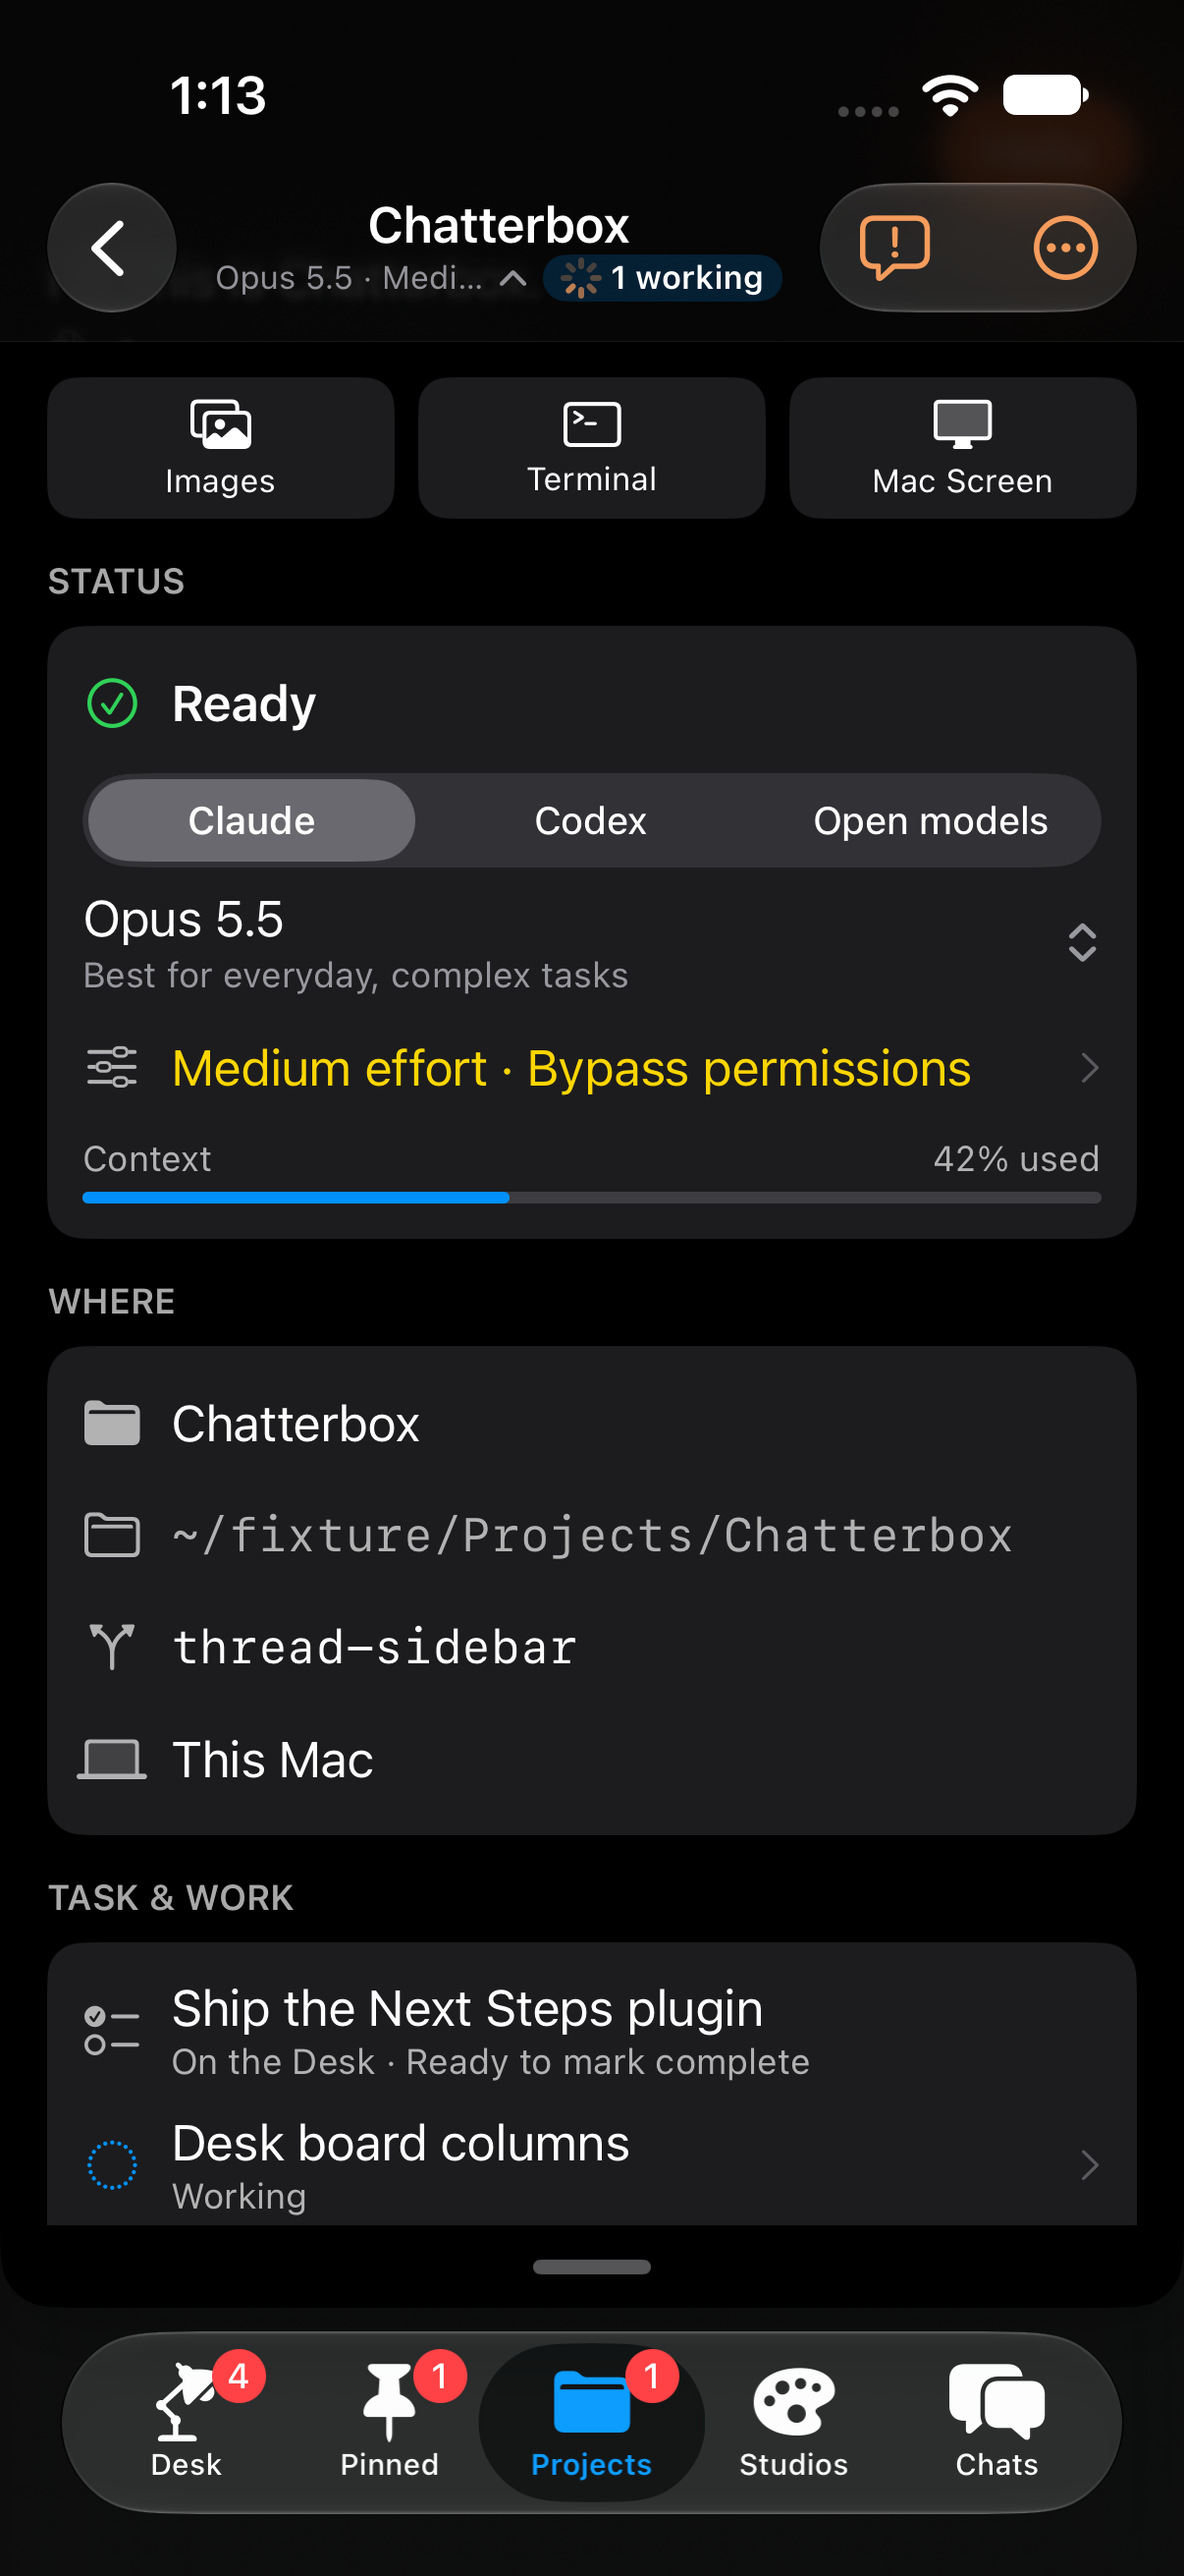
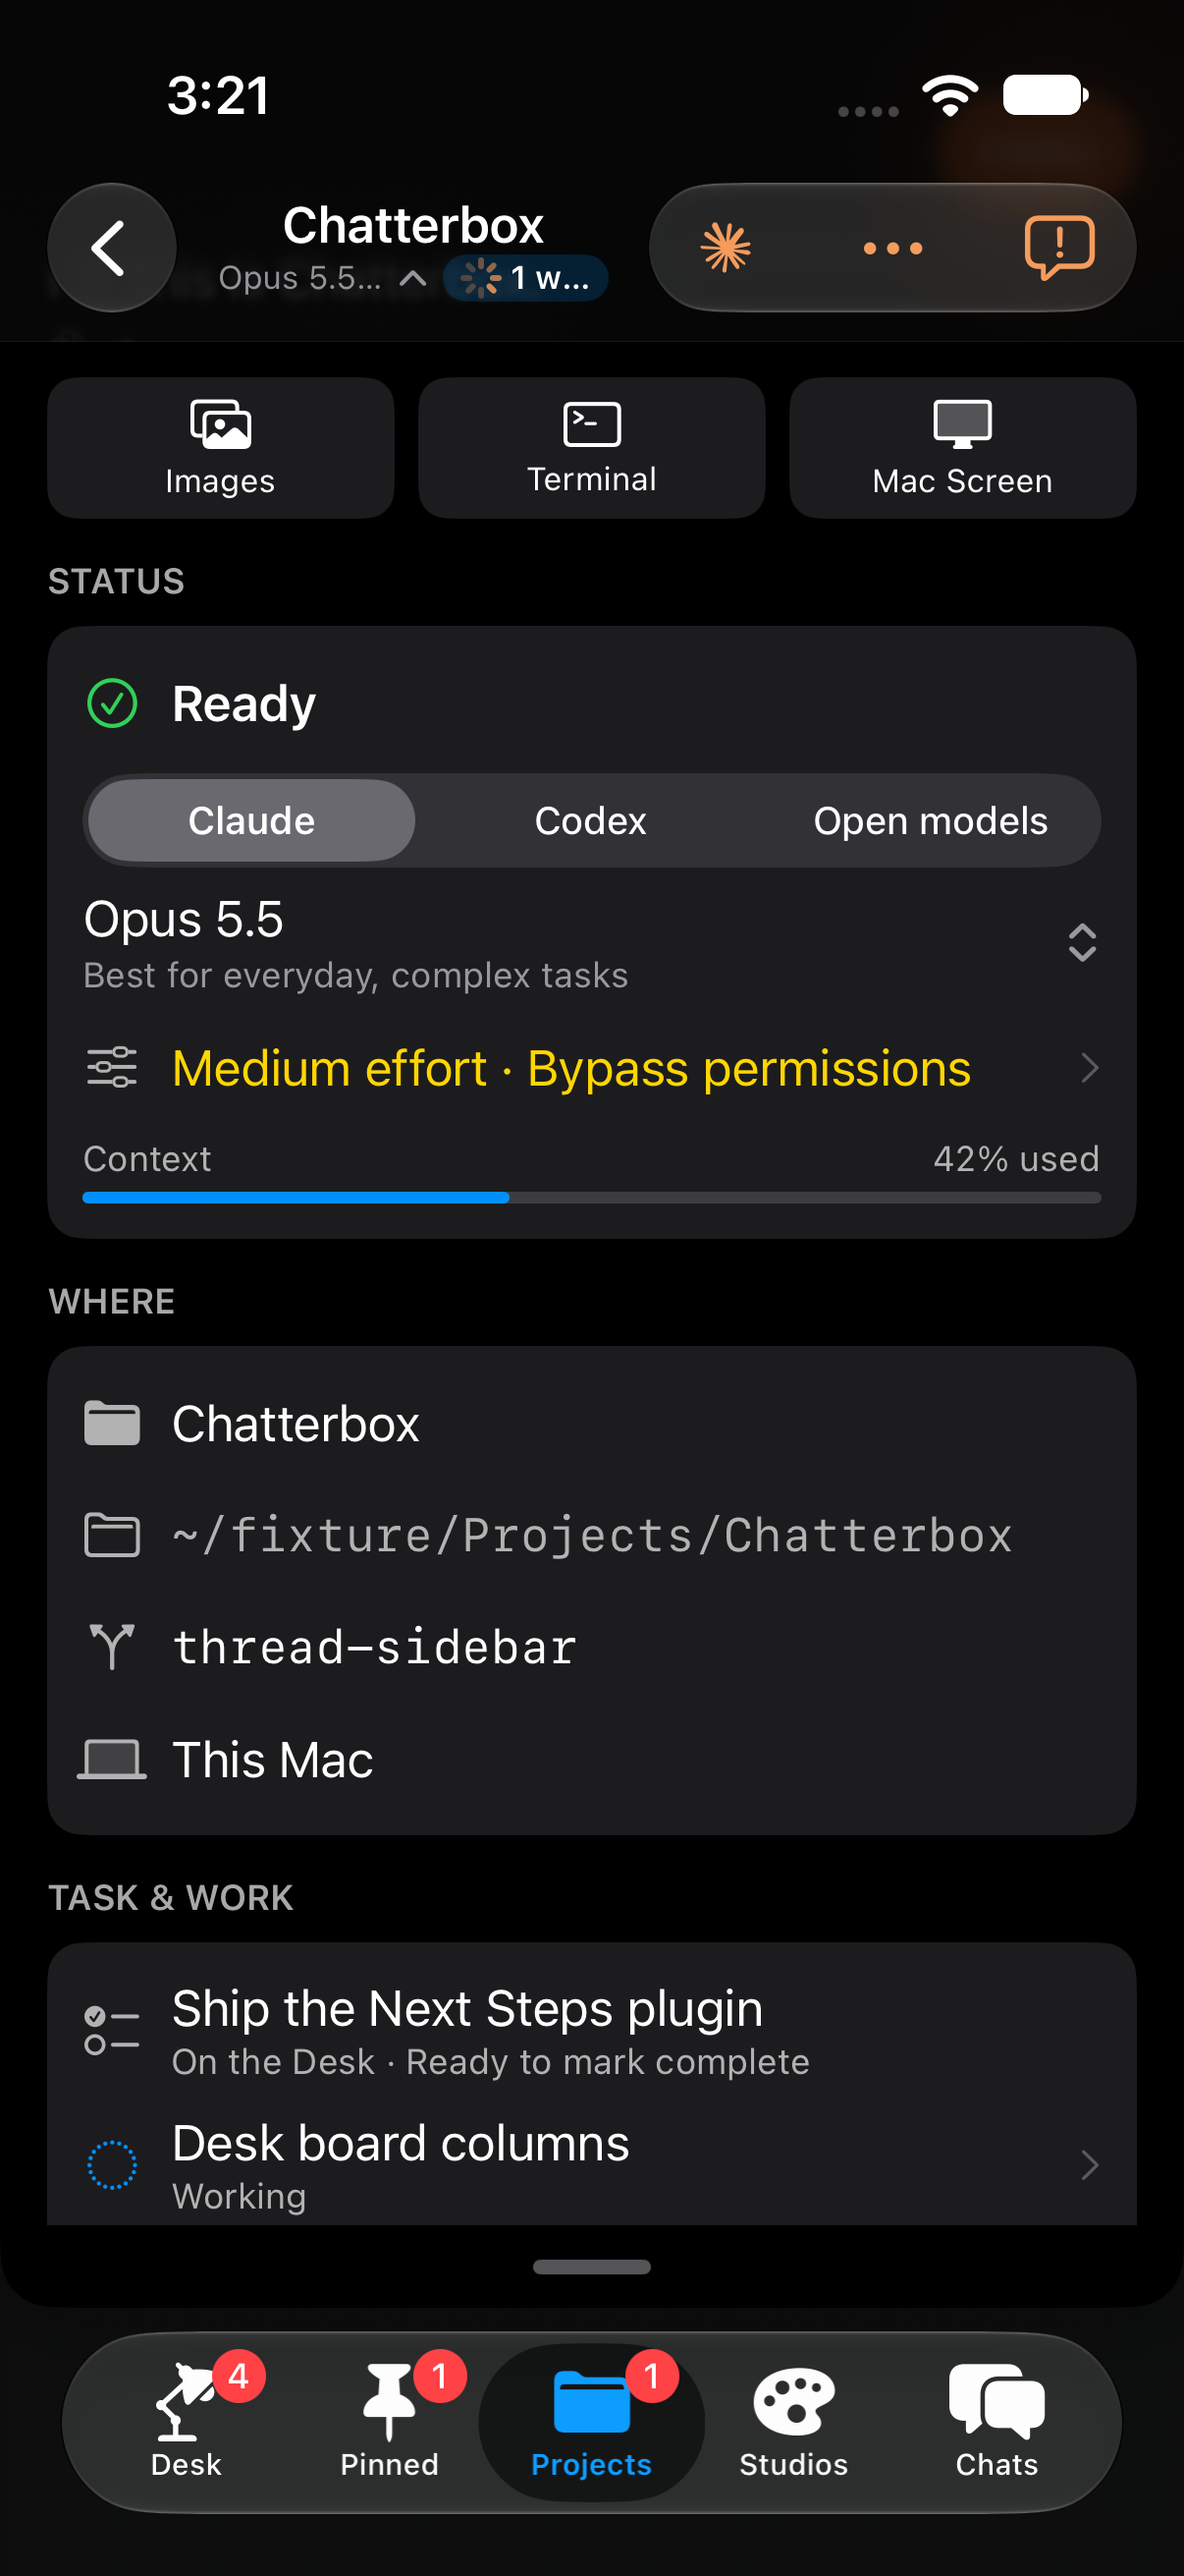
Phone About on the right, contextual rail: tests and screenshots
testAboutColumnOnWideLayout: the list stays, About opens on the right from the
session's bar (selected while open), Session Settings stays in reach, a work
thread peeks in the column and Back returns, the open state survives a
relaunch. testEdgeSwipeAndCards opens Session Settings from its bar button and
starts from list mode on a reused test device. Screenshots: duo-about-column,
duo-peek-column, phone-about(-full).

Changed region(s): [[0.1841, 0.0618, 0.7977, 0.1236], [0.859, 0.0618, 0.9204, 0.1236], [0.1534, 0.0309, 0.2148, 0.0618]]

diff --git a/tests/mobile-home-nav/HomeNavTests.swift b/tests/mobile-home-nav/HomeNavTests.swift
@@ -362,8 +362,10 @@ final class HomeNavTests: XCTestCase {
   XCTAssertFalse(app.buttons["chat-975B1769-F8EA-59E2-A601-B40A492D19FA"].exists, "a sidequest isn't listed on its own")
   XCTAssertTrue(app.staticTexts["Codex: Render four ribbon options"].exists, "its chat's row names it")
   capture("1-chats-list",app)
-  // Cards, two to a row (from the ⋯ menu, with the sort).
+  // Cards, two to a row (from the ⋯ menu, with the sort). The shared test device can keep cards
+  // from an earlier run: back to the list first.
   app.buttons["Connection"].tap()
+  if app.buttons["Show as List"].waitForExistence(timeout: 2) { app.buttons["Show as List"].tap(); app.buttons["Connection"].tap() }
   app.buttons["Show as Cards"].tap()
   try await Task.sleep(for: .seconds(1))
   let first = app.buttons["chat-" + uuid("Chatterbox")], second = app.buttons["chat-" + uuid("optimization")]
@@ -379,9 +381,8 @@ final class HomeNavTests: XCTestCase {
   XCTAssertTrue(app.staticTexts["Hi! This is SDHQ."].waitForExistence(timeout: 10))
   XCTAssertTrue(app.buttons["Sidequest to Codex: Render four ribbon options, working"].waitForExistence(timeout: 5), "the chat lists its sidequest")
   capture("2-sidequest-strip", app)
-  // Session Settings, from About this session (tap the title).
-  openAbout(app)
-  XCTAssertTrue(app.buttons["about-settings"].waitForExistence(timeout: 5)); app.buttons["about-settings"].tap()
+  // Session Settings, a top-level button on the session's bar (also in About's Status).
+  XCTAssertTrue(app.buttons["rail-settings"].waitForExistence(timeout: 5)); app.buttons["rail-settings"].tap()
   // The provider, then one row with the model in use; its menu lists the models. No favorites or preset tiles.
   XCTAssertTrue(app.staticTexts["Model"].waitForExistence(timeout: 5) && app.buttons["Open models"].exists, "Session Settings lists the providers")
   XCTAssertFalse(app.buttons["favorite-1"].exists, "no favorites")
@@ -1480,29 +1481,64 @@ final class HomeNavTests: XCTestCase {
   // Its About data, without running work threads in the list (see server.py's ABOUT).
   try await fixture("reset"); try await fixture("about"); try await fixture("sidechat")
   XCUIDevice.shared.orientation = .portrait
-  let app = XCUIApplication()
-  // An open Duo: an iPad-sized screen that reports a compact width.
-  app.launchEnvironment = ["CHATTERBOX_TEST_HOST":"127.0.0.1", "CHATTERBOX_TEST_CODE":"123456", "CHATTERBOX_TEST_PORT":"47411",
-                           "CHATTERBOX_TEST_COMPACT_WIDTH":"1"]
-  app.launch()
+  // An open Duo: an iPad-sized screen that reports a compact width. About starts closed.
+  func launch(_ arguments: [String]) -> XCUIApplication {
+   let app = XCUIApplication()
+   app.launchEnvironment = ["CHATTERBOX_TEST_HOST":"127.0.0.1", "CHATTERBOX_TEST_CODE":"123456", "CHATTERBOX_TEST_PORT":"47411",
+                            "CHATTERBOX_TEST_COMPACT_WIDTH":"1"]
+   app.launchArguments = arguments
+   app.launch()
+   return app
+  }
+  var app = launch(["-mobileAboutColumnOpen", "NO"])
   guard min(app.windows.firstMatch.frame.width,app.windows.firstMatch.frame.height)>=600 else { throw XCTSkip("needs an open Duo or an iPad") }
-  XCTAssertTrue(tab("Projects",app).waitForExistence(timeout:15)); tab("Projects",app).tap()
-  let project=app.buttons["chat-"+uuid("Chatterbox")]
-  XCTAssertTrue(project.waitForExistence(timeout:10)); project.tap()
-  XCTAssertTrue(app.staticTexts["Hi! This is Chatterbox."].waitForExistence(timeout:10))
-  app.buttons["chat-title"].tap()
+  func openChatterbox() {
+   XCTAssertTrue(tab("Projects",app).waitForExistence(timeout:15)); tab("Projects",app).tap()
+   let project=app.buttons["chat-"+uuid("Chatterbox")]
+   XCTAssertTrue(project.waitForExistence(timeout:10)); project.tap()
+   XCTAssertTrue(app.staticTexts["Hi! This is Chatterbox."].waitForExistence(timeout:10))
+  }
+  openChatterbox()
+  let list=app.descendants(matching:.any)["session-sidebar-pane"]
   let column=app.descendants(matching:.any)["aboutColumn"]
-  XCTAssertTrue(column.waitForExistence(timeout:5), "About opens as a column")
-  XCTAssertFalse(app.descendants(matching:.any)["session-sidebar-pane"].exists, "in the session list's place")
-  XCTAssertTrue(app.staticTexts["Hi! This is Chatterbox."].exists, "beside the conversation")
-  XCTAssertTrue(app.buttons["work-chip-C4F14522-94D6-5AF4-BCF1-77AE08737652"].waitForExistence(timeout:5), "its sections, the work threads too")
-  XCTAssertLessThan(app.buttons["work-chip-C4F14522-94D6-5AF4-BCF1-77AE08737652"].frame.maxX, app.staticTexts["Hi! This is Chatterbox."].frame.minX, "to the left of the conversation")
+  // The session's tools on its bar: About, Session Settings, its actions, Feedback.
+  let about=app.buttons["about-rail-button"], settings=app.buttons["rail-settings"]
+  XCTAssertTrue(about.waitForExistence(timeout:5) && settings.exists && app.buttons["Session Menu"].exists, "the session's bar has About, Session Settings and its menu")
+  XCTAssertFalse(about.isSelected, "About starts closed")
+  XCTAssertFalse(column.exists)
+  about.tap()
+  XCTAssertTrue(column.waitForExistence(timeout:5), "About slides in")
+  XCTAssertTrue(list.exists, "the session list stays on the left")
+  XCTAssertGreaterThan(column.frame.minX, list.frame.maxX, "About is on the right, beside the conversation")
+  XCTAssertGreaterThan(column.frame.maxX, app.windows.firstMatch.frame.maxX - 2, "along the right edge")
+  XCTAssertTrue(app.buttons["about-rail-button"].isSelected, "its button shows as selected while it's open")
+  let chip=app.buttons["work-chip-C4F14522-94D6-5AF4-BCF1-77AE08737652"]
+  XCTAssertTrue(chip.waitForExistence(timeout:5), "its sections, the work threads too")
+  // The action buttons fit: none cut off.
+  for id in ["about-start-work","about-sidequest"] where app.buttons[id].exists {
+   XCTAssertLessThanOrEqual(app.buttons[id].frame.maxX, column.frame.maxX + 1, "\(id) fits the column")
+  }
   capture("duo-about-column", app)
-  // Its Settings row opens the session's settings over the conversation.
-  app.buttons["about-settings"].tap()
+  XCTAssertTrue(settings.isHittable && app.buttons["about-rail-button"].isHittable, "the session's bar stays in reach beside About")
+  // Session Settings, straight from the bar.
+  settings.tap()
   XCTAssertTrue(app.navigationBars["Session Settings"].waitForExistence(timeout:5)); app.navigationBars["Session Settings"].buttons["Done"].tap()
-  app.buttons["chat-title"].tap()
-  XCTAssertTrue(app.descendants(matching:.any)["session-sidebar-pane"].waitForExistence(timeout:5), "the title puts the list back")
+  // A work thread peeks in the same column; Back returns to About.
+  chip.tap()
+  let peek=app.descendants(matching:.any)["peekColumn"]
+  XCTAssertTrue(peek.waitForExistence(timeout:5), "a work thread peeks in the right-hand column")
+  XCTAssertTrue(list.exists && app.staticTexts["Hi! This is Chatterbox."].exists, "the list and the front thread stay")
+  capture("duo-peek-column", app)
+  app.buttons["peek-back"].tap()
+  XCTAssertTrue(column.waitForExistence(timeout:5), "Back returns the column to About")
+  // Remembered: a relaunch opens with About showing.
+  app.terminate()
+  app = launch([])
+  openChatterbox()
+  XCTAssertTrue(app.descendants(matching:.any)["aboutColumn"].waitForExistence(timeout:5), "About's open state is remembered")
+  app.buttons["about-column-close"].tap()
+  XCTAssertTrue(app.descendants(matching:.any)["aboutColumn"].waitForNonExistence(timeout:5), "Close hides it")
+  XCTAssertFalse(app.buttons["about-rail-button"].isSelected)
  }
  /// The Desk on its own preferences: a fresh install, which opens on it.
  @MainActor func deskApp() -> XCUIApplication {
